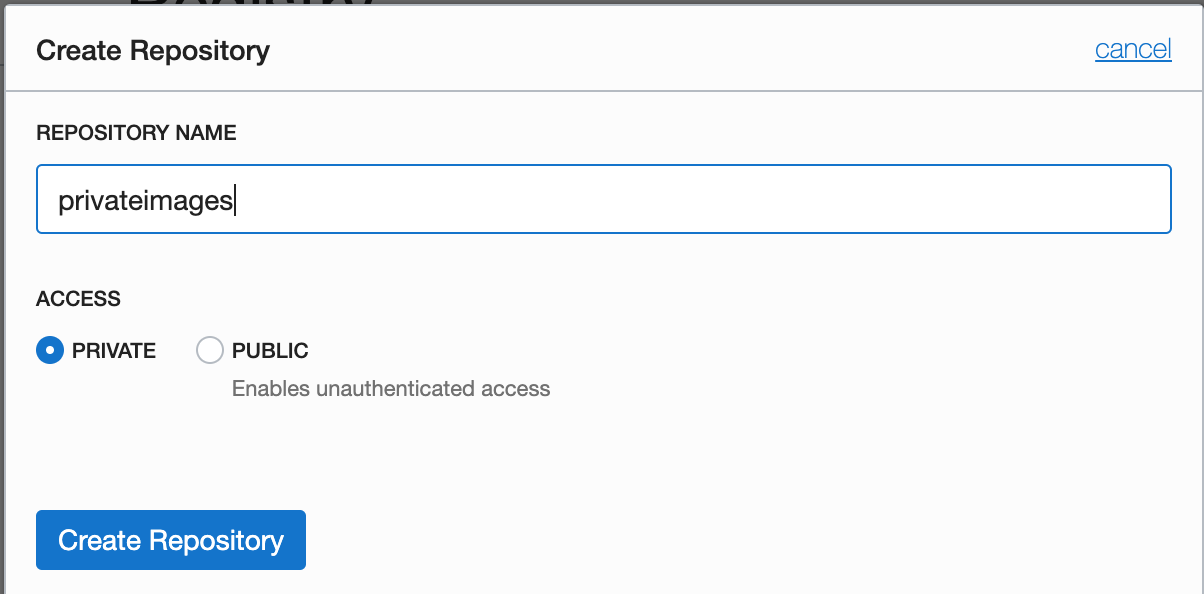
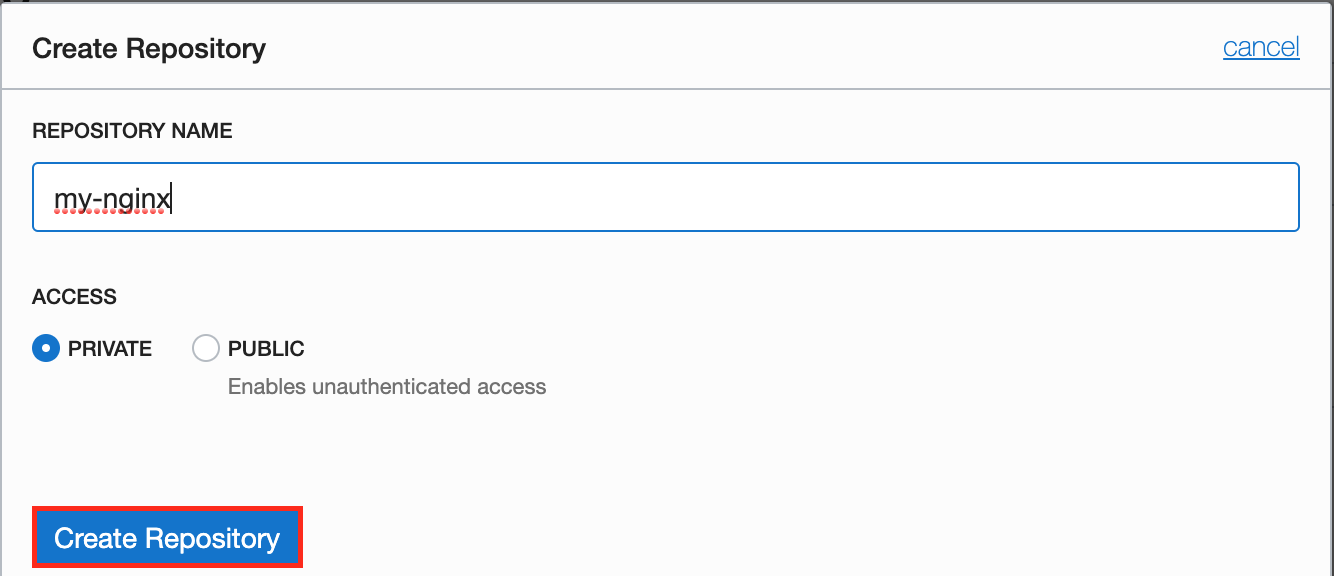
OCIR

Changed region(s): [[0.0, 0.0, 1.0, 1.0]]

diff --git a/_posts/2020-03-06-OCIR-basic.md b/_posts/2020-03-06-OCIR-basic.md
@@ -75,9 +75,9 @@ my-nginx                                         1.0                 5bf5271f828
 업로드를 위해서는 먼저 tag를 작성 한 후 push 할 수 있다. tag 작성은 "registry 주소/object namespace/registry 이름:tag" 으로 작성 하여 준다.
 
 ```bash
-[jakekim@JakeKim dockerfile]$ docker tag my-nginx:1.0 iad.ocir.io/idbkzk6hw0ua/privateimages:my-nginx
-[jakekim@JakeKim dockerfile]$ docker push iad.ocir.io/idbkzk6hw0ua/privateimages:my-nginx
-The push refers to repository [iad.ocir.io/idbkzk6hw0ua/privateimages]
+[jakekim@JakeKim dockerfile]$ docker tag my-nginx:1.0 iad.ocir.io/idbkzk6hw0ua/my-nginx:1.0
+[jakekim@JakeKim dockerfile]$ docker push iad.ocir.io/idbkzk6hw0ua/my-nginx:1.0
+The push refers to repository [iad.ocir.io/idbkzk6hw0ua/my-nginx]
 bc5633c583e9: Pushed 
 55a77731ed26: Layer already exists 
 71f2244bc14d: Layer already exists 
@@ -119,7 +119,7 @@ spec:
   spec:
    containers:
    - name: my-nginx
-     image: iad.ocir.io/idbkzk6hw0ua/privateimages:my-nginx
+     image: iad.ocir.io/idbkzk6hw0ua/my-nginx:1.0
      ports:
      - containerPort: 80
    imagePullSecrets:
